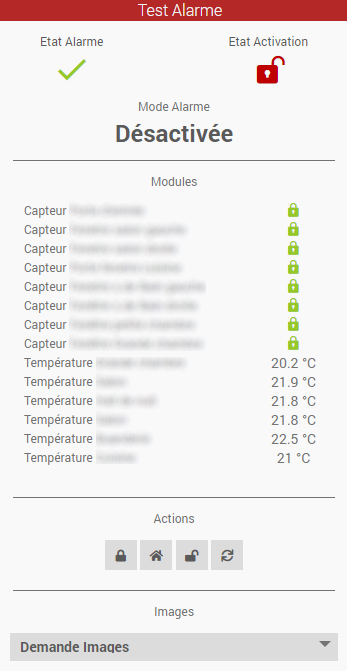
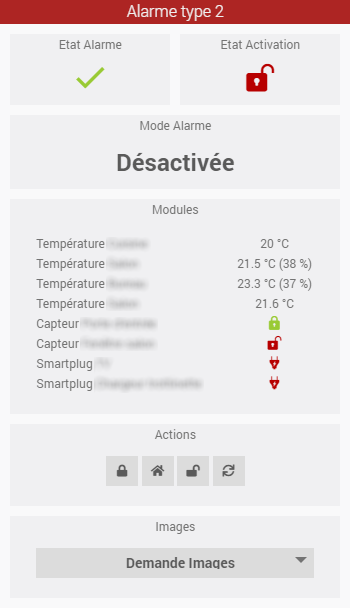
Update doc Verisure

diff --git a/verisure/fr_FR/changelog.md b/verisure/fr_FR/changelog.md
@@ -12,6 +12,15 @@ pluginId: verisure
 **Remarque** : en cas de mise à jour non listée ici, c'est que celle-ci ne comporte que des changements mineurs du type documentation ou corrections de bugs mineurs.
 
 
+# 2023-04-05
+
+Correctifs suite aux modifications des API Verisure (Authentification MFA et requêtes - Migration REST API vers GraphQL). Attention, il s'agit donc d'une mise à jour **majeure**. Il vous faudra donc vous authentifier de nouveau pour chaque alarme créée (type 1 & 2).
+
+Ajout des fonctions suivanbtes :
+ - Prise en charge de la nouvelle génération d'alarme (via le type 1 pour le moment) 
+ - Refonte des widgets (compatibilité core Jeedom v4.4)
+
+
 # 2022-10-18
 
 Ajout des fonctions suivantes :
